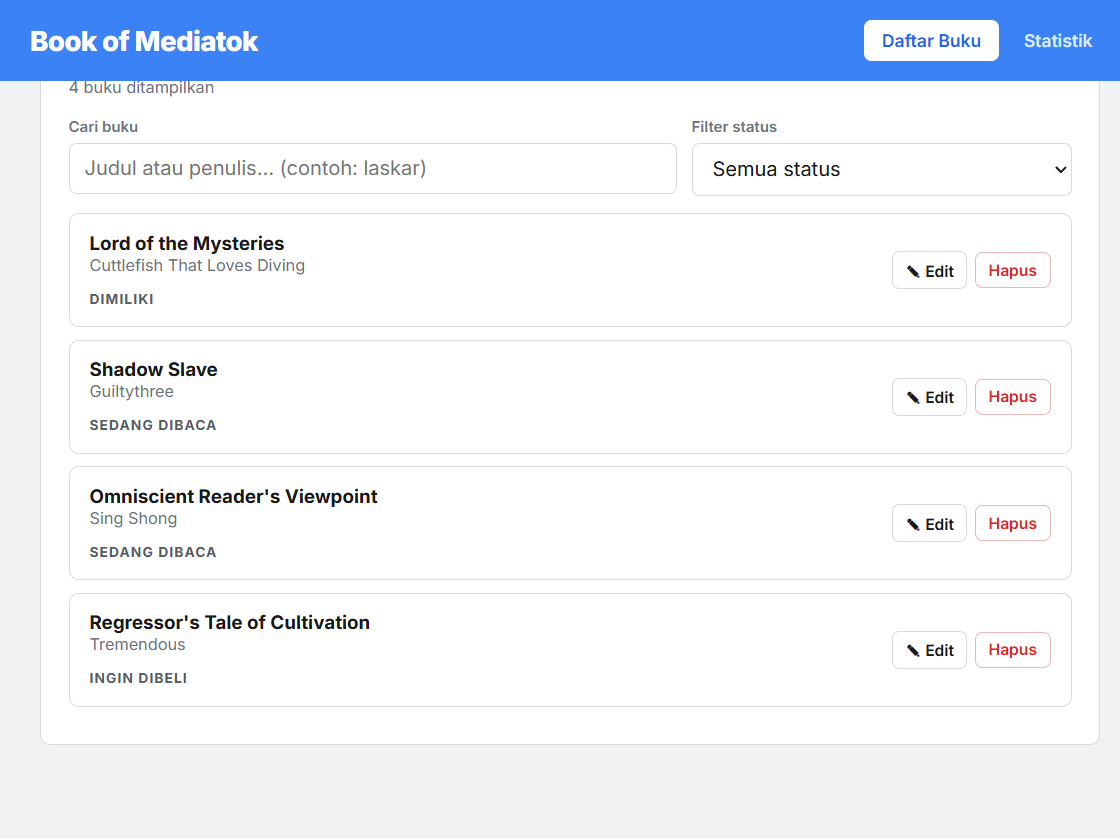
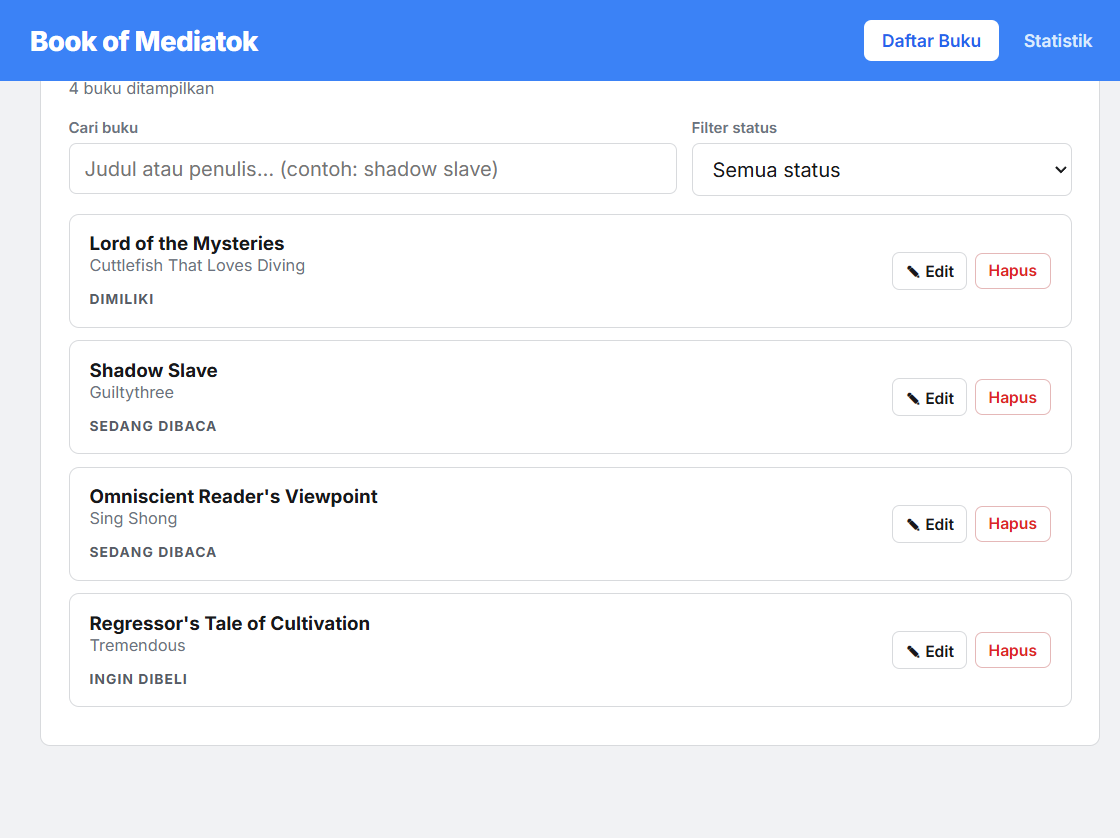
contoh pencarian di daftar buku: shadow slave

diff --git a/Erza Farandi_124140171_pertemuan3/src/components/BookFilter/BookFilter.jsx b/Erza Farandi_124140171_pertemuan3/src/components/BookFilter/BookFilter.jsx
@@ -21,7 +21,7 @@ export default function BookFilter({ filterStatus, onFilterChange, search, onSea
         <input
           id="search-input"
           type="text"
-          placeholder="Judul atau penulis… (contoh: laskar)"
+          placeholder="Judul atau penulis… (contoh: shadow slave)"
           value={search}
           onChange={(e) => onSearchChange(e.target.value)}
         />
